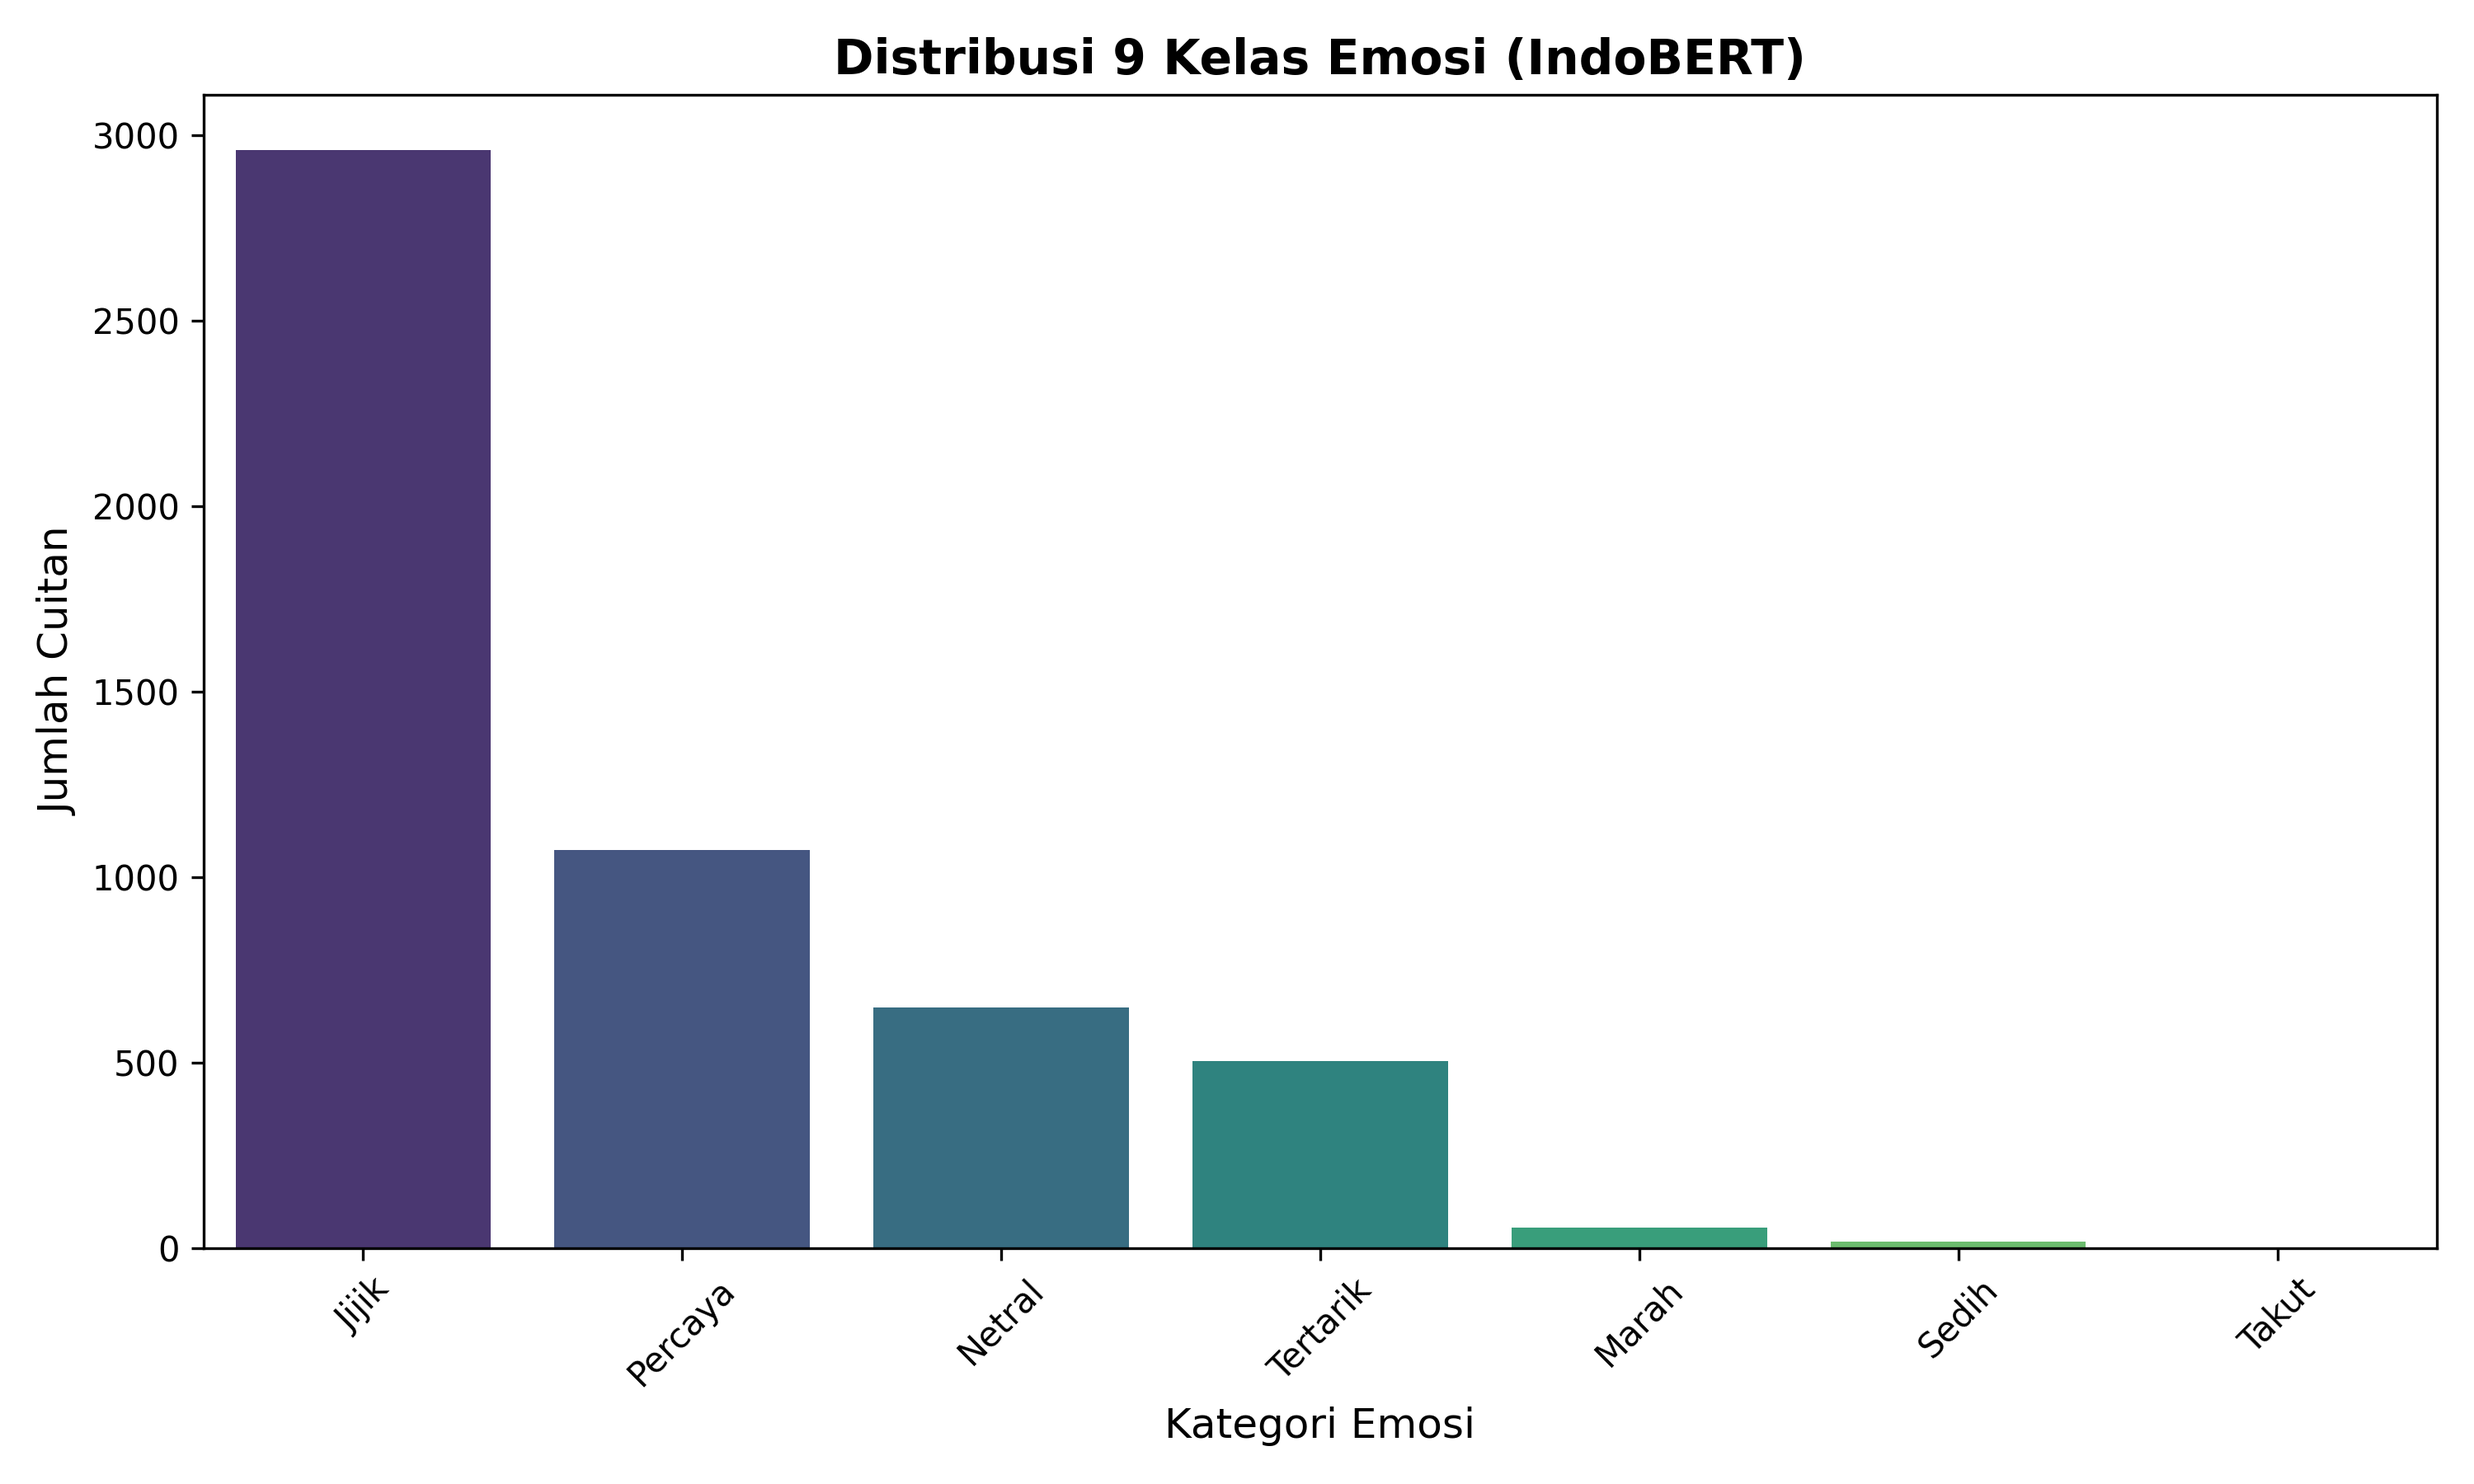
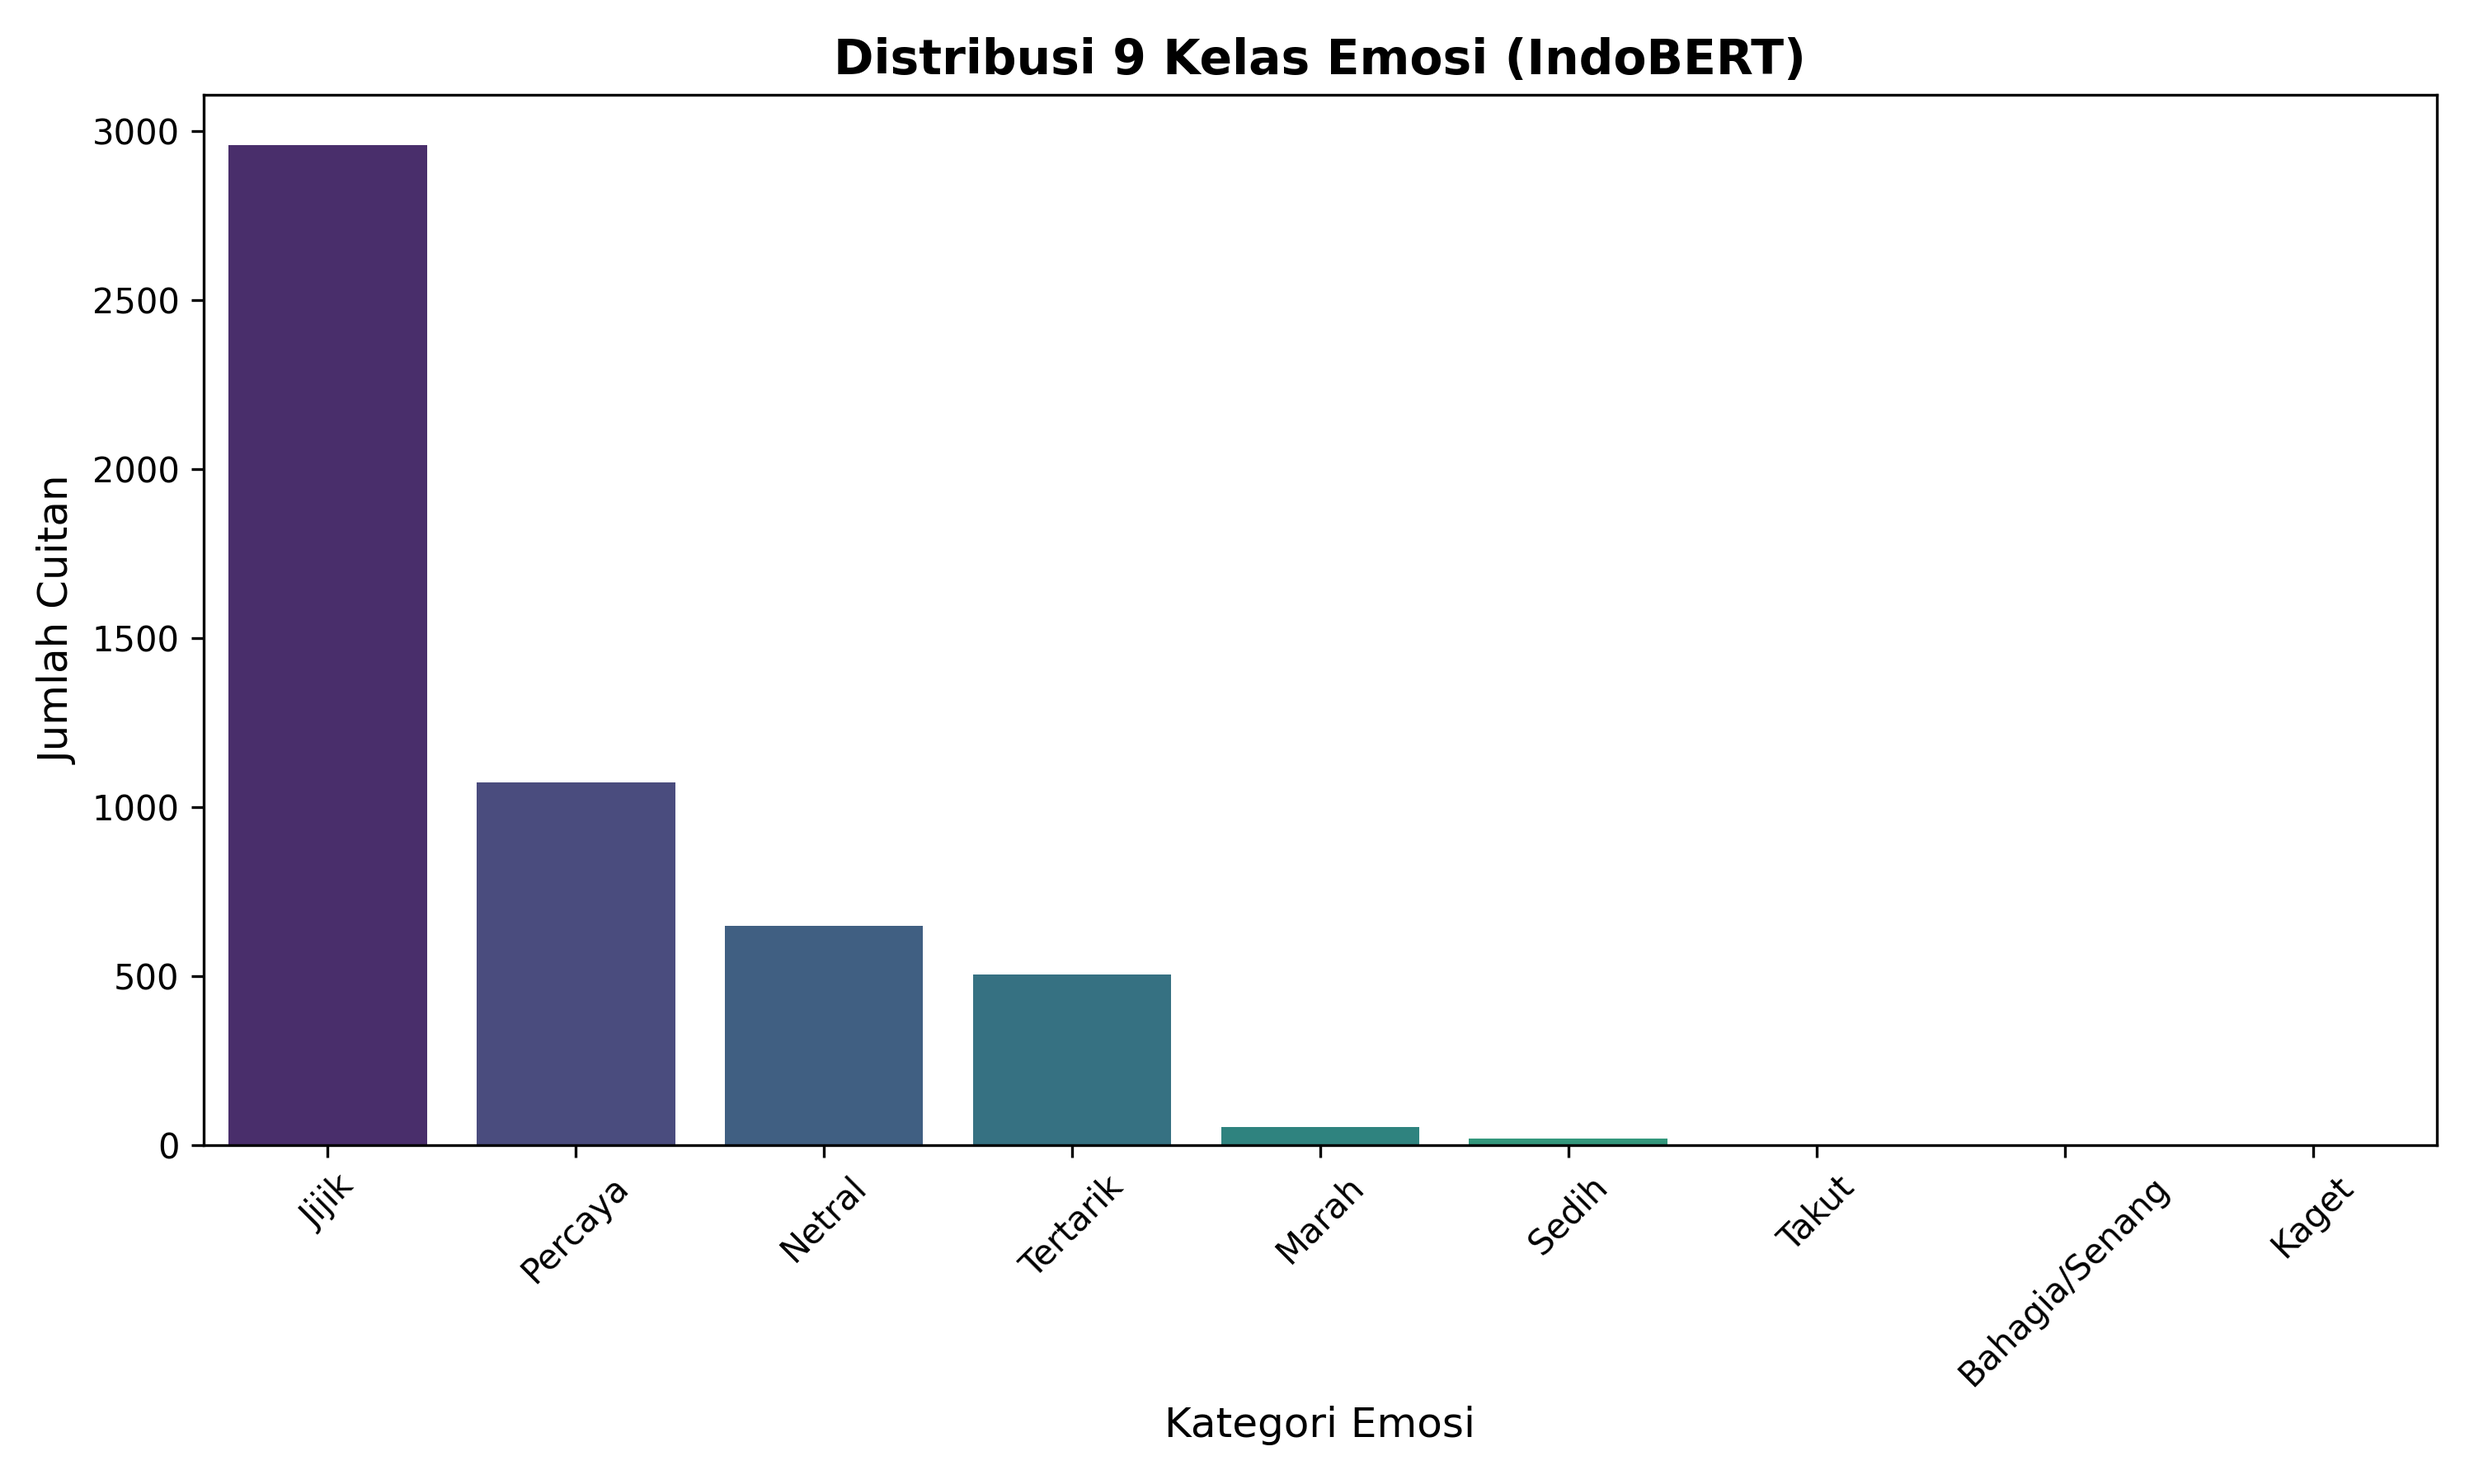
fix: Force display all 9 emotion categories on charts even when count is 0

diff --git a/scripts/plot_extra.py b/scripts/plot_extra.py
@@ -11,6 +11,13 @@ df_emotion = pd.read_csv("data/results/indobert_9_emosi_fixed.csv")
 emotion_counts = df_emotion['predicted_emotion'].value_counts().reset_index()
 emotion_counts.columns = ['Emotion', 'Count']
 
+all_emotions = ['Marah', 'Jijik', 'Takut', 'Sedih', 'Bahagia/Senang', 'Netral', 'Percaya', 'Kaget', 'Tertarik']
+missing = set(all_emotions) - set(emotion_counts['Emotion'])
+if missing:
+    missing_df = pd.DataFrame({'Emotion': list(missing), 'Count': 0})
+    emotion_counts = pd.concat([emotion_counts, missing_df], ignore_index=True)
+emotion_counts = emotion_counts.sort_values(by='Count', ascending=False)
+
 plt.figure(figsize=(10, 6))
 sns.barplot(x='Emotion', y='Count', data=emotion_counts, hue='Emotion', palette="viridis", legend=False)
 plt.title("Distribusi 9 Kelas Emosi (IndoBERT)", fontsize=14, fontweight='bold')

diff --git a/dashboard/app.py b/dashboard/app.py
@@ -142,6 +142,16 @@ elif page == "😊 Analisis Emosi (NLP)":
     emotion_counts = df_emotion['predicted_emotion'].value_counts().reset_index()
     emotion_counts.columns = ['Emosi', 'Jumlah']
     
+    # Enforce all 9 categories even if count is 0
+    all_emotions = ['Marah', 'Jijik', 'Takut', 'Sedih', 'Bahagia/Senang', 'Netral', 'Percaya', 'Kaget', 'Tertarik']
+    missing_emotions = set(all_emotions) - set(emotion_counts['Emosi'])
+    if missing_emotions:
+        missing_df = pd.DataFrame({'Emosi': list(missing_emotions), 'Jumlah': 0})
+        emotion_counts = pd.concat([emotion_counts, missing_df], ignore_index=True)
+        
+    # Sort for consistent display
+    emotion_counts = emotion_counts.sort_values(by='Jumlah', ascending=False)
+    
     col1, col2 = st.columns([2, 1])
     
     with col1:
